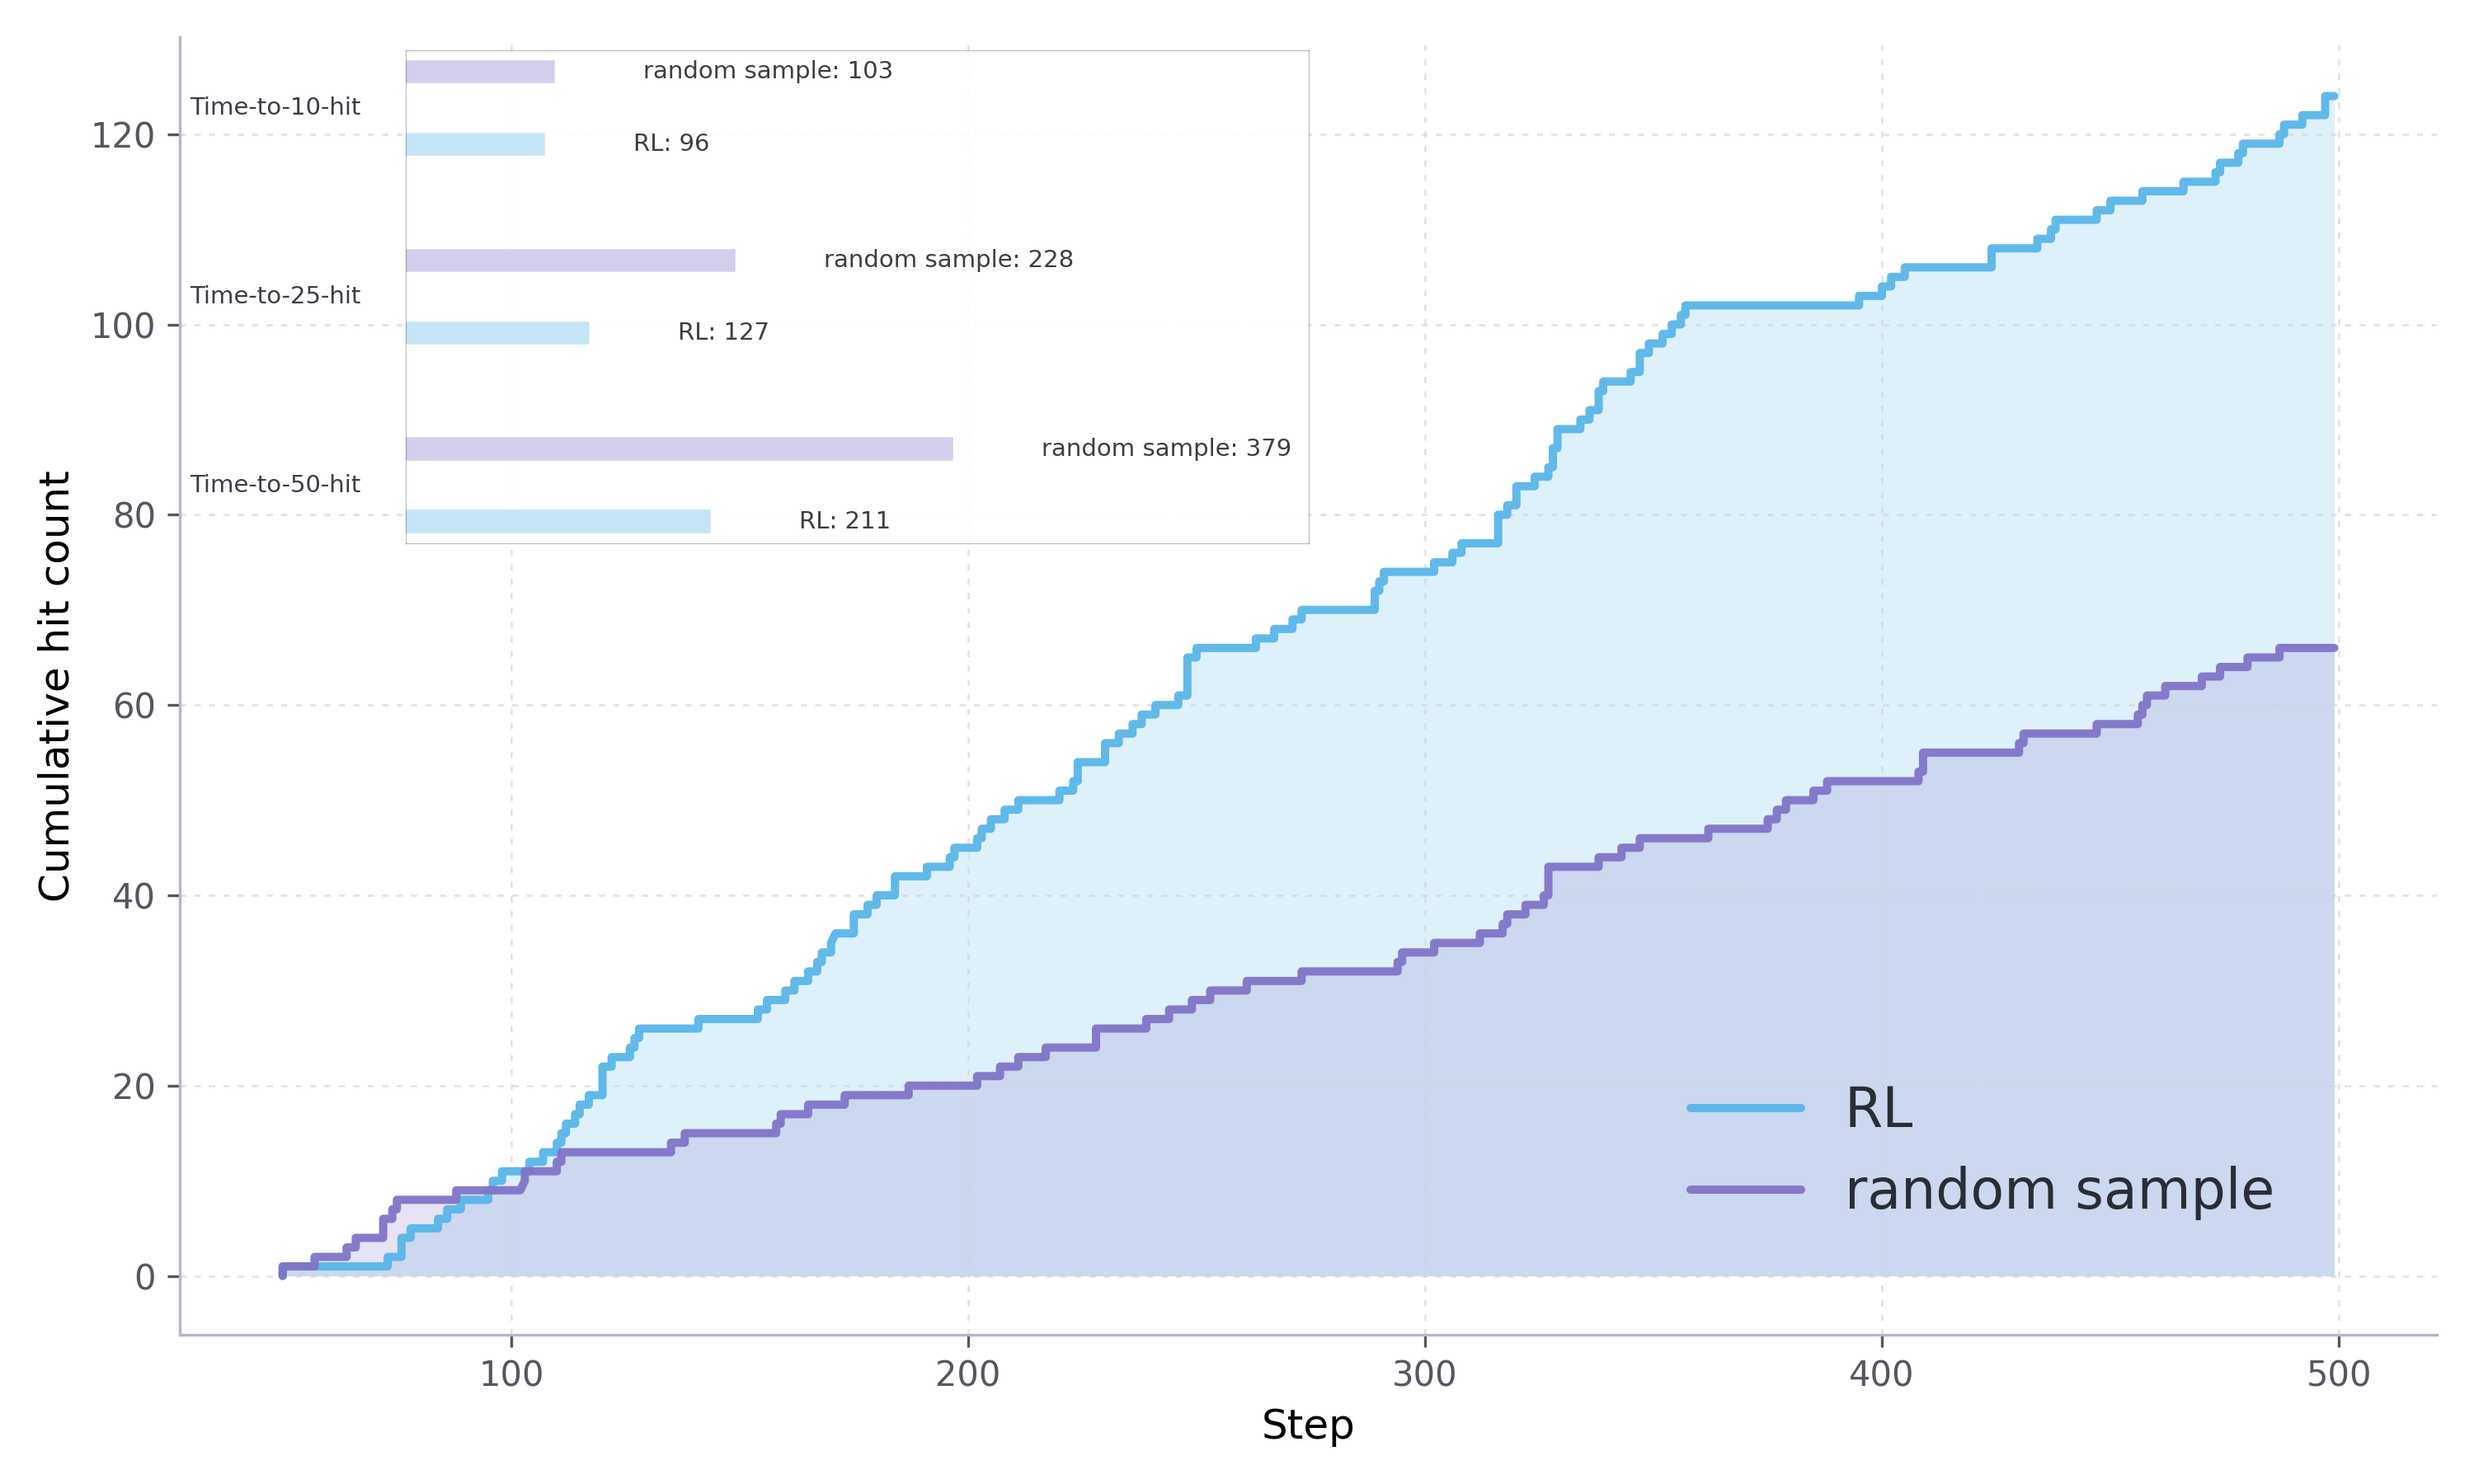
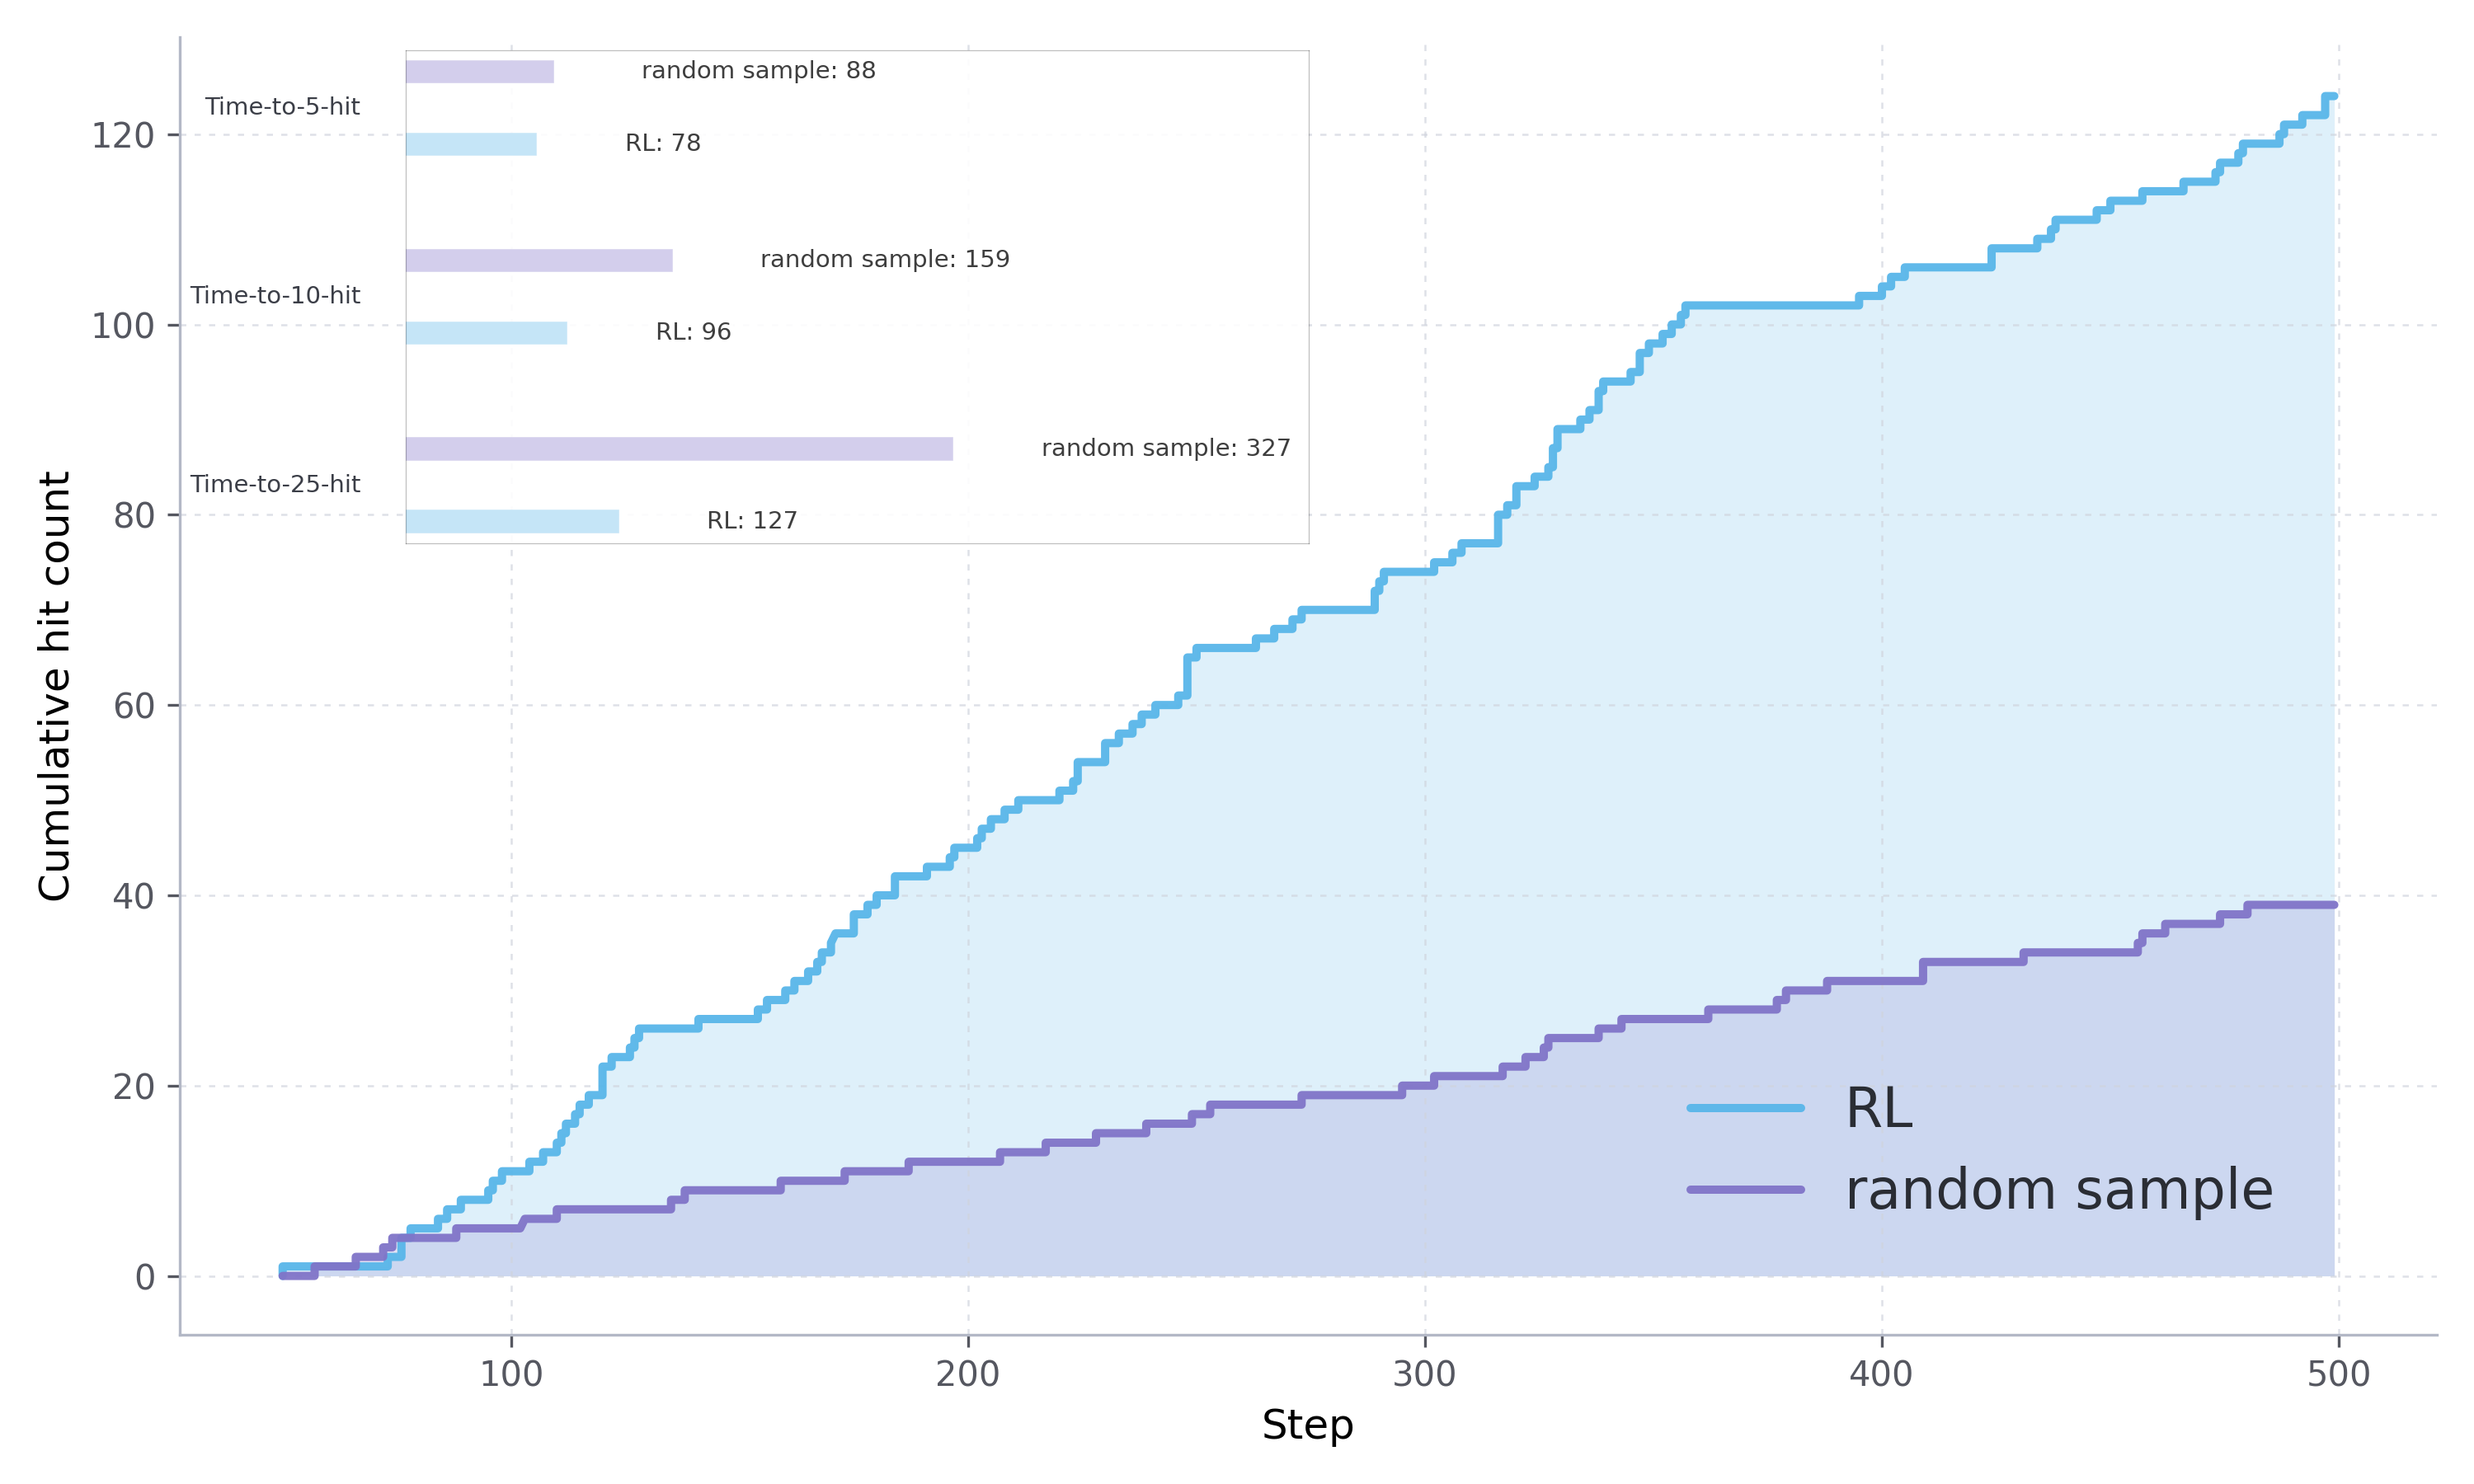
add symmetry for 8 attachment points

diff --git a/MD_and_GD_as_char_based_model/draw_picture/total_score_trend.py b/MD_and_GD_as_char_based_model/draw_picture/total_score_trend.py
@@ -258,8 +258,45 @@ def plot_curves(
 		base = np.array(color)
 		return tuple(np.clip(base + (1.0 - base) * factor, 0.0, 1.0))
 
+	prepared_series: List[np.ndarray] = []
+	label_keys: List[str] = []
 	for curve, data in zip(curves, datasets):
-		y_values = data["top_n_mean"]
+		label_key = curve.label.strip().lower()
+		label_keys.append(label_key)
+		y_values = data["top_n_mean"].to_numpy(dtype=float, copy=True)
+		if label_key == "random sample":
+			y_values *= 0.6
+		prepared_series.append(y_values)
+
+	def _first_finite(values: np.ndarray) -> Optional[Tuple[int, float]]:
+		finite_idx = np.flatnonzero(np.isfinite(values))
+		if finite_idx.size == 0:
+			return None
+		index = int(finite_idx[0])
+		return index, float(values[index])
+
+	try:
+		random_index = label_keys.index("random sample")
+	except ValueError:
+		random_index = None
+	try:
+		rl_index = label_keys.index("rl")
+	except ValueError:
+		rl_index = None
+
+	if random_index is not None and rl_index is not None:
+		random_series = prepared_series[random_index]
+		rl_series = prepared_series[rl_index]
+		random_first = _first_finite(random_series)
+		rl_first = _first_finite(rl_series)
+		if random_first and rl_first:
+			_, random_value = random_first
+			_, rl_value = rl_first
+			bias = rl_value - random_value
+			if bias != 0.0:
+				random_series[np.isfinite(random_series)] += bias
+
+	for curve, data, y_values in zip(curves, datasets, prepared_series):
 		finite_mask = np.isfinite(y_values)
 		fill_color = _lighten(curve.color, 0.1)
 		ax.fill_between(
@@ -273,7 +310,7 @@ def plot_curves(
 		)
 		ax.plot(
 			data[step_col],
-			data["top_n_mean"],
+			y_values,
 			color=curve.color,
 			linewidth=2.6,
 			linestyle="-",

diff --git a/MD_and_GD_as_char_based_model/data_preparation/scoring_strategy/score_function.py b/MD_and_GD_as_char_based_model/data_preparation/scoring_strategy/score_function.py
@@ -178,6 +178,27 @@ def _decoration_pair_reward(decoration: str) -> float:
         if match_count == 1:
             return 0.25
         return 0.0
+    if len(parts) == 8:
+        def _group_identical(indices: List[int]) -> bool:
+            base = fps[indices[0]]
+            return all(_is_identical(base, fps[i]) for i in indices[1:])
+
+        group_0145 = _group_identical([0, 1, 4, 5])
+        group_2367 = _group_identical([2, 3, 6, 7])
+        pair_01 = _group_identical([0, 1])
+        pair_23 = _group_identical([2, 3])
+        pair_45 = _group_identical([4, 5])
+        pair_67 = _group_identical([6, 7])
+
+        if group_0145 and group_2367:
+            return 1.0
+        if group_0145 and pair_23 and pair_67:
+            return 0.5
+        if group_2367 and pair_01 and pair_45:
+            return 0.5
+        if pair_01 and pair_23 and pair_45 and pair_67:
+            return 0.25
+        return 0.0
     if cluster_sizes == [2, 2]:
         return 1.0
     return 0.0

diff --git a/MD_and_GD_as_char_based_model/data_preparation/slice_multi.py b/MD_and_GD_as_char_based_model/data_preparation/slice_multi.py
@@ -222,9 +222,9 @@ def parse_args():
     parser.add_argument("--output-smiles-path", "-u",
                         help="Path to the output SMILES file.", type=str, default="./data/our_test/our_smiles_recap_cuts_8_test.tsv")
     parser.add_argument("--max-cuts", "-c",
-                        help="Maximum number of cuts to attempts for each molecule [DEFAULT: 4]", type=int, default=6)
+                        help="Maximum number of cuts to attempts for each molecule [DEFAULT: 4]", type=int, default=8)
     parser.add_argument("--slice-type", "-s",
-                        help="Kind of slicing performed TYPES=(recap, hr) [DEFAULT: hr]", type=str, default="hr")
+                        help="Kind of slicing performed TYPES=(recap, hr) [DEFAULT: hr]", type=str, default="recap")
     parser.add_argument("--conditions-file", "-f",
                         help="JSON file with the filtering conditions for the scaffolds and the decorations.", type=str, default="./condition/condition.json")
 

diff --git a/MD_and_GD_as_char_based_model/draw_picture/hit_count.py b/MD_and_GD_as_char_based_model/draw_picture/hit_count.py
@@ -475,7 +475,7 @@ def parse_args() -> argparse.Namespace:
 		"--hit-thresholds",
 		nargs="*",
 		type=int,
-		default=[10, 25, 50],
+		default=[5,10, 25],
 		help="Hit count thresholds for the inset bar chart (default: 10 25 50)",
 	)
 	parser.add_argument(
@@ -556,6 +556,9 @@ def main() -> None:
 			charge_col=args.charge_column,
 			symmetry_col=args.symmetry_column,
 		)
+		if curve.label.strip().lower() == "random sample":
+			scaled_hits = np.floor(result["cumulative_hits"].to_numpy(dtype=float) * 0.6)
+			result["cumulative_hits"] = scaled_hits.astype(float)
 		datasets.append(result)
 		time_to_hits_per_curve.append(
 			compute_time_to_hits(result, args.hit_thresholds, step_col=args.step_column)

diff --git a/MD_and_GD_as_char_based_model/data_preparation/validate_single_smiles.py b/MD_and_GD_as_char_based_model/data_preparation/validate_single_smiles.py
@@ -21,7 +21,7 @@ def parse_args() -> argparse.Namespace:
     parser.add_argument(
         "--smiles",
         "-s",
-        default="[*:0]c1ccc(-c2ccc(-c3ccc([*:1])cc3)c3nsnc23)cc1",
+        default="[*:0]CCSc1cc2c(cc1SCC[*:1])-c1nc-2nc2[nH]c(nc3nc(nc4[nH]c(n1)c1cc(SCC[*:2])c(SCC[*:3])cc41)-c1cc(SCC[*:4])c(SCC[*:5])cc1-3)c1cc(SCC[*:6])c(SCC[*:7])cc21",
         help="SMILES string to validate.",
     )
     parser.add_argument(
